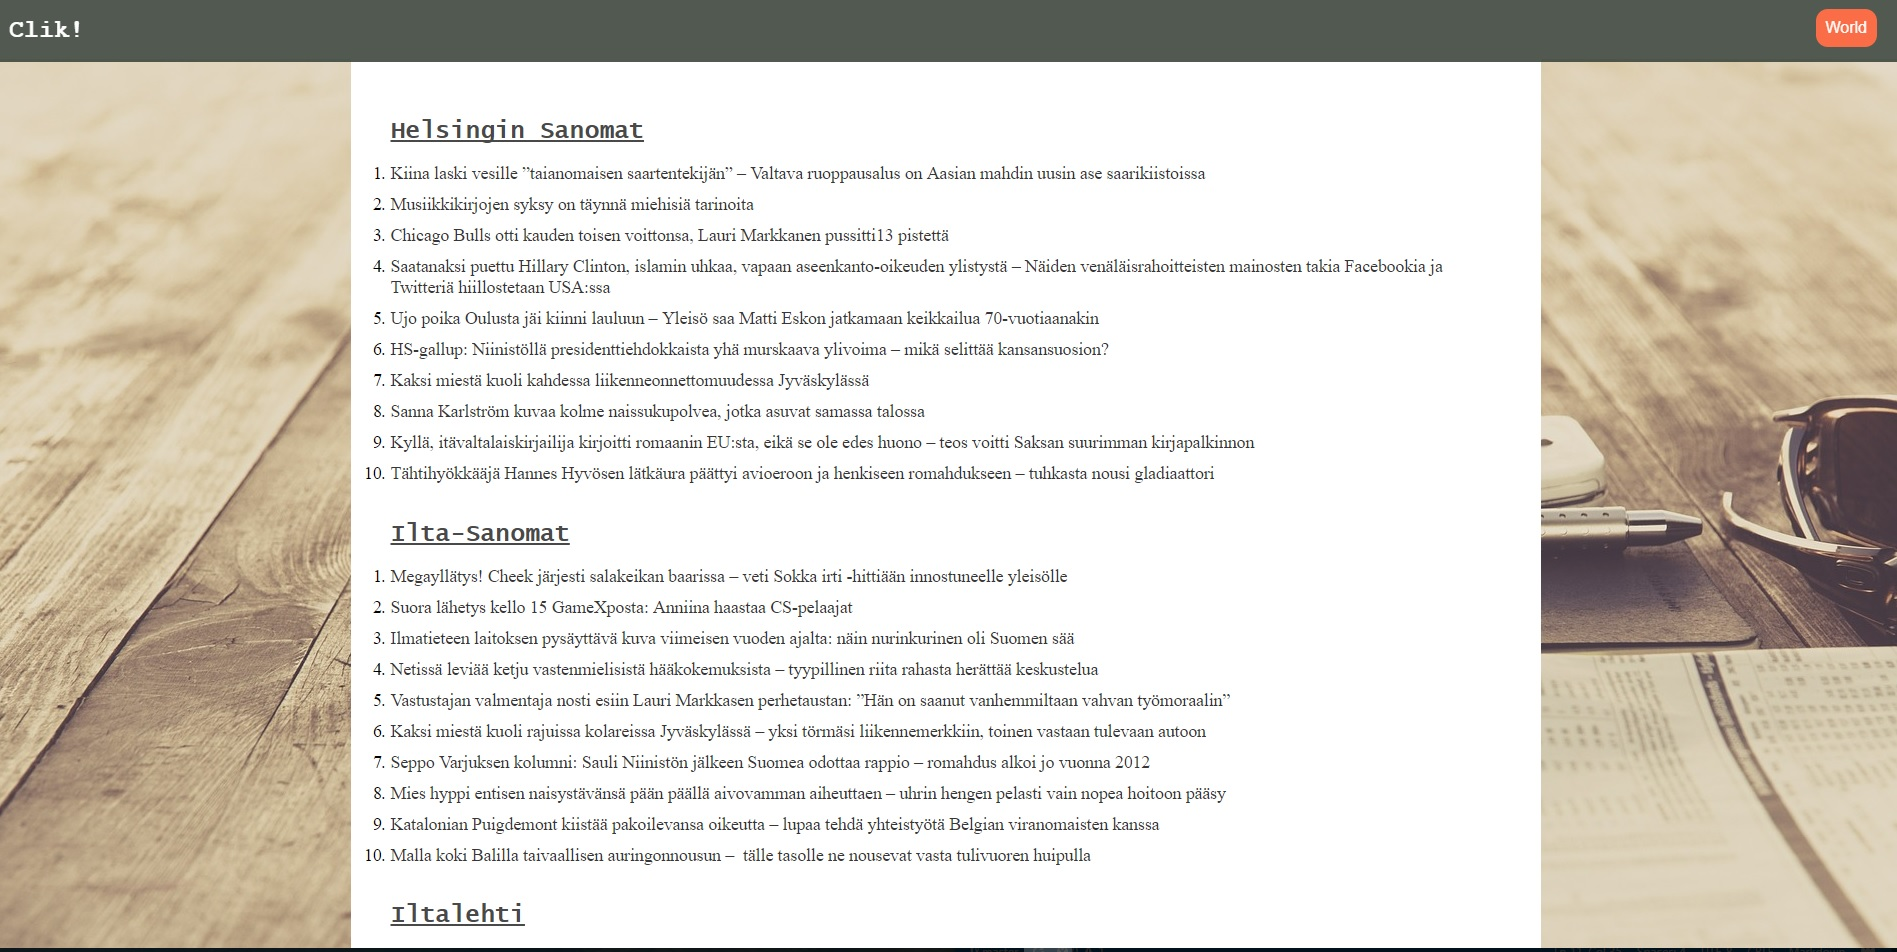
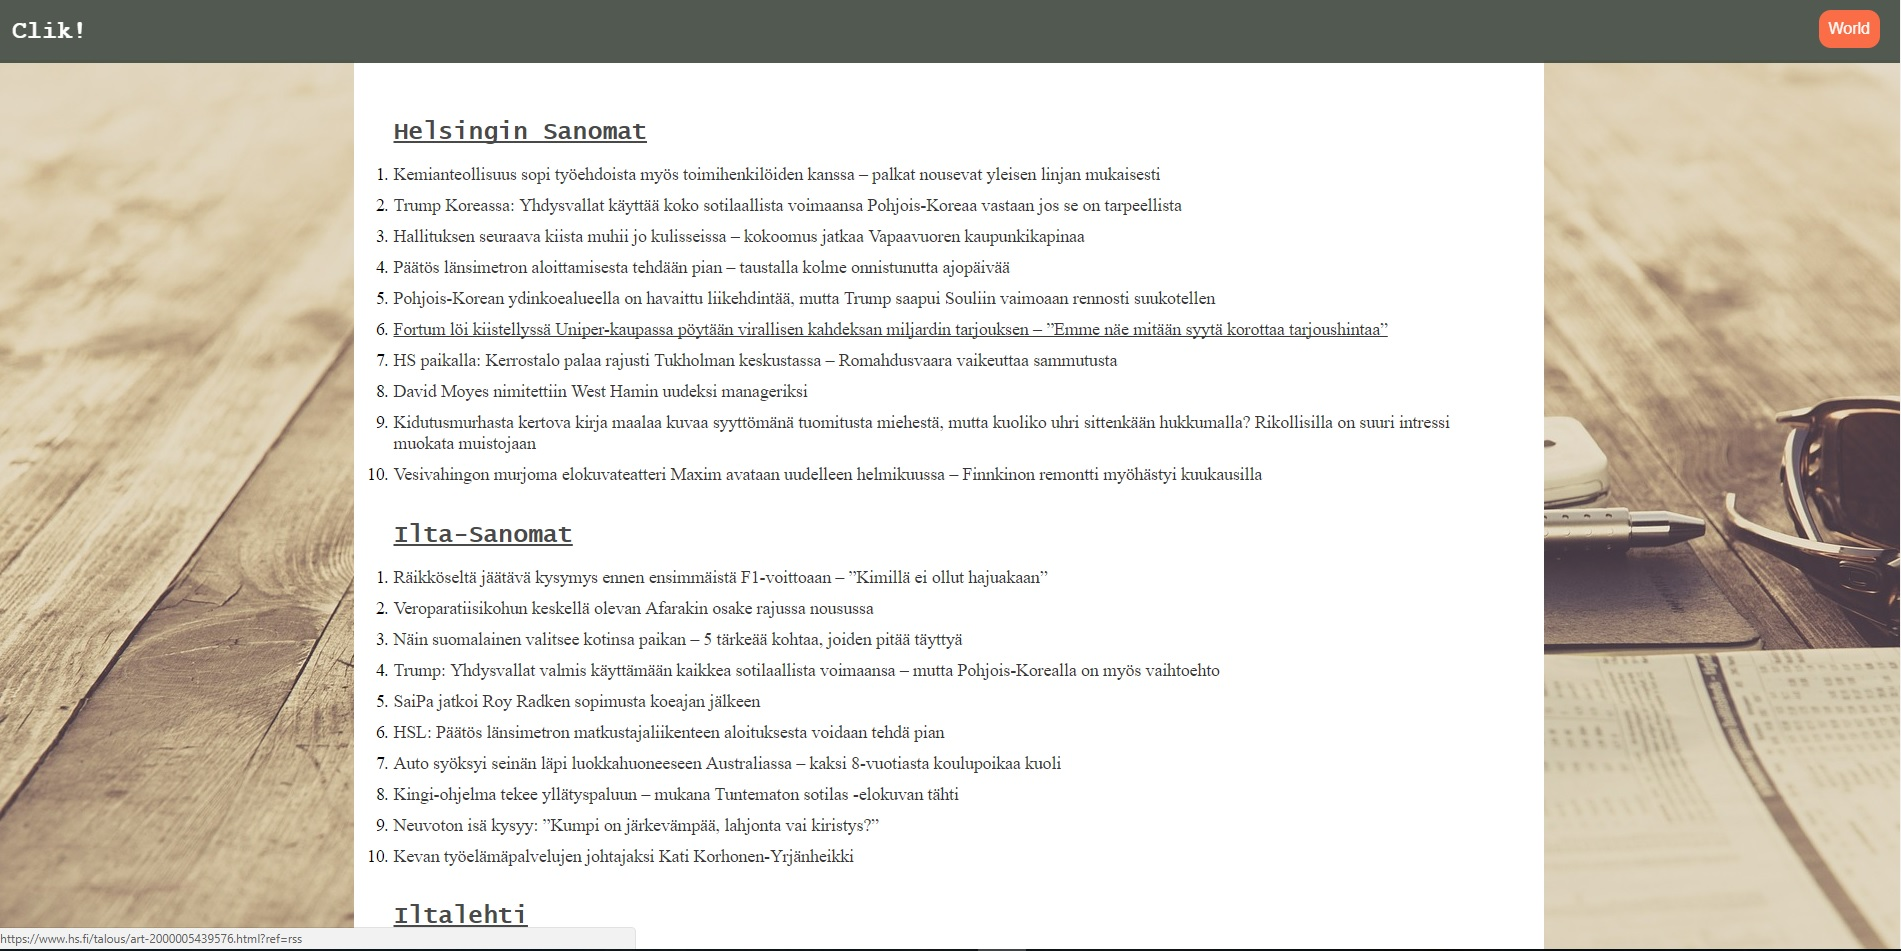
testing image

diff --git a/README.md b/README.md
@@ -6,5 +6,7 @@
 
 > $npm install  
 > $npm start
+
+![Picture of the current state of the app](https://raw.githubusercontent.com/jexniemi/Clik/blob/master/ui/src/pics/status.jpg)
  
  <a rel="license" href="http://creativecommons.org/licenses/by-nc-sa/3.0/"><img alt="Creative Commons -lisenssi" style="border-width:0" src="https://i.creativecommons.org/l/by-nc-sa/3.0/88x31.png" /></a><br />Tämä teos on lisensoitu <a rel="license" href="http://creativecommons.org/licenses/by-nc-sa/3.0/">Creative Commons Nimeä-EiKaupallinen-JaaSamoin 3.0 Ei sovitettu -lisenssillä</a>.
